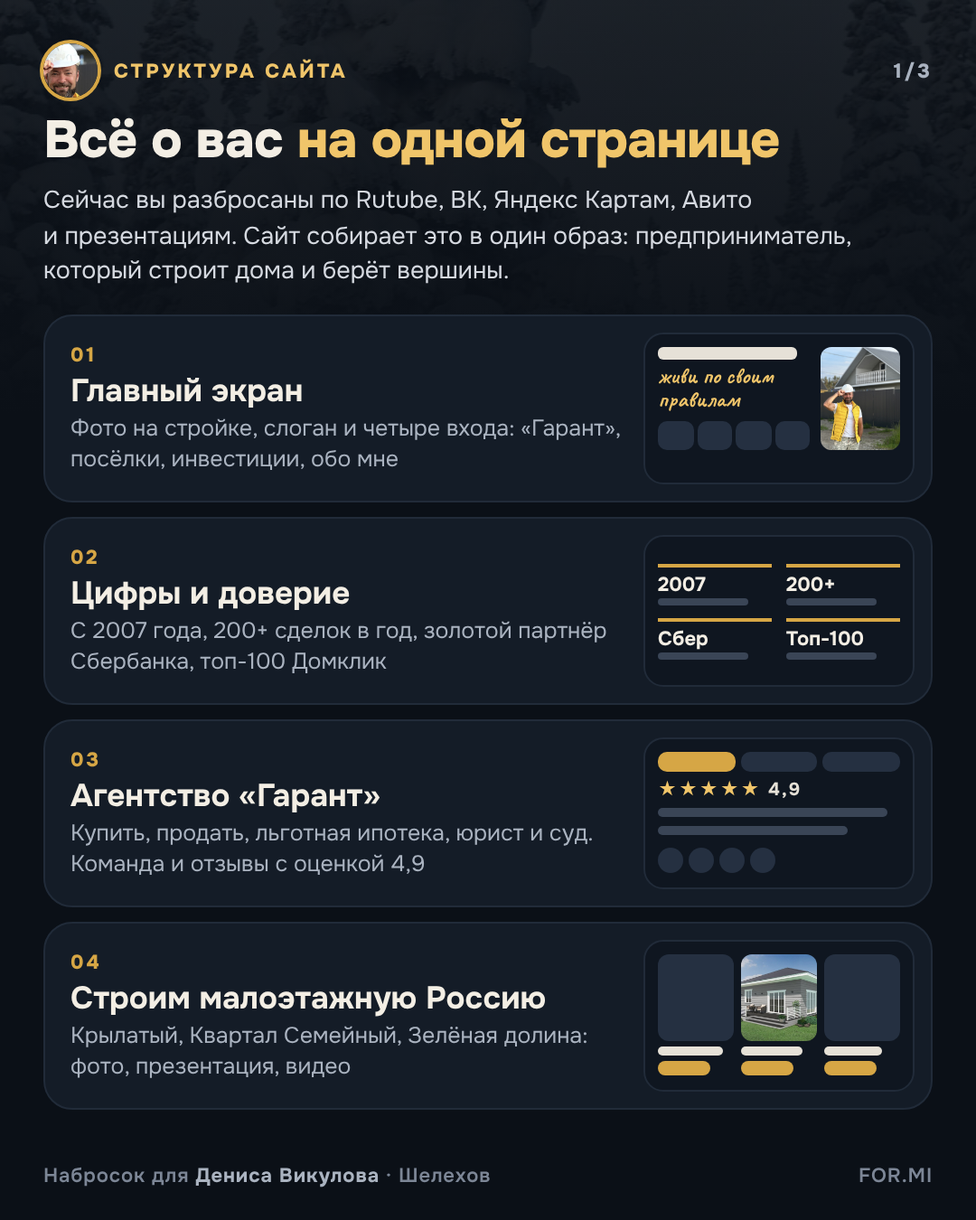
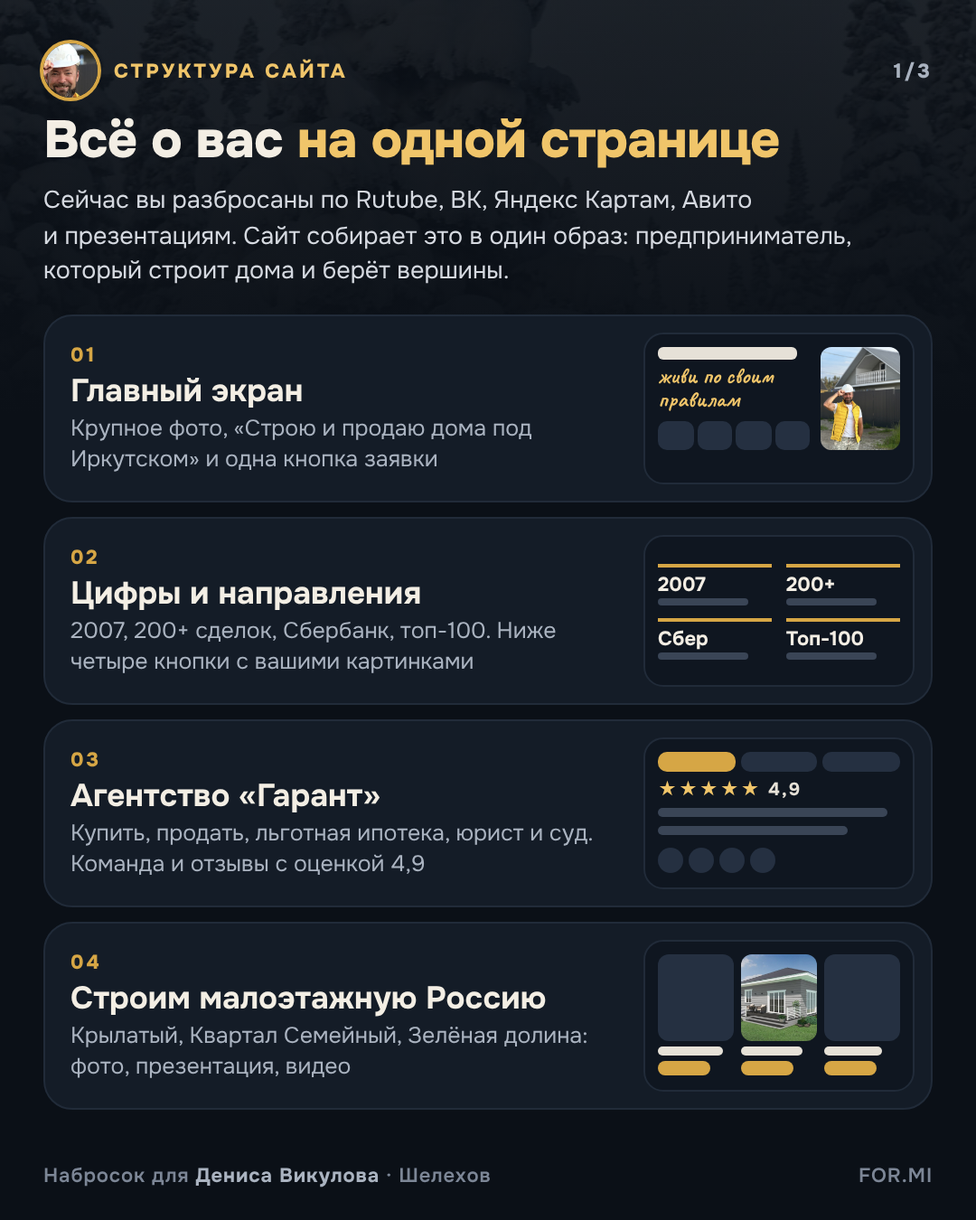
Денис Викулов: первый экран про одну мысль, направления с его картинками под экраном
Claude-Session: https://claude.ai/code/session_01MqcZMF1QZGroxt2dRB4nWR

Changed region(s): [[0.0611, 0.4667, 0.6111, 0.56], [0.0611, 0.3422, 0.6111, 0.4044]]

diff --git a/denis-vikulov/index.html b/denis-vikulov/index.html
@@ -60,74 +60,66 @@ nav a:hover{color:var(--gold-hi)}
 @media (max-width:1150px){nav{display:none}.h-right{margin-left:auto}}
 @media (max-width:640px){header .wrap{height:62px}.mono{width:36px;height:36px;font-size:12.5px}.logo b{font-size:14px}.h-cta,.ic.soc{display:none}.ic.menu{display:grid}}
 
-/* главный экран: фото Дениса на всю ширину, слева текст на затемнении */
+/* главный экран: одна мысль. Кто Денис и чем занят, одна кнопка заявки, крупное фото */
 .stage{position:relative;isolation:isolate;overflow:hidden;margin-top:-72px;padding-top:72px}
 .bg-blur,.bg-photo{position:absolute;z-index:-3;pointer-events:none}
-.bg-blur{inset:-40px;background:url(img/denis-kaska.jpg) 50% 30%/cover;filter:blur(34px) saturate(.9);opacity:.7}
-.bg-photo{z-index:-2;top:0;right:0;bottom:0;width:62%;background:url(img/denis-kaska.jpg) 28% 22%/cover;-webkit-mask-image:linear-gradient(90deg,transparent 0%,#000 30%);mask-image:linear-gradient(90deg,transparent 0%,#000 30%)}
-.stage::after{content:"";position:absolute;inset:0;z-index:-1;background:linear-gradient(90deg,var(--bg) 0%,rgb(11 16 23 / .9) 34%,rgb(11 16 23 / .35) 56%,transparent 74%),linear-gradient(180deg,rgb(11 16 23 / .6) 0%,transparent 18%,transparent 64%,var(--bg) 100%)}
-.hero{position:relative;display:grid;grid-template-columns:minmax(0,600px) minmax(0,1fr);gap:40px;min-height:clamp(560px,calc(100vh - 210px),720px);padding-block:clamp(48px,7vh,84px) 40px;align-items:center}
-.h-left{display:grid;gap:26px;align-content:center}
-.hero h1{font-family:var(--serif);font-weight:500;font-size:clamp(38px,4vw,58px);font-variant-numeric:lining-nums;line-height:1.04;letter-spacing:-.01em}
+.bg-blur{inset:-40px;background:url(img/denis-kaska.jpg) 50% 30%/cover;filter:blur(34px) saturate(.9);opacity:.6}
+.bg-photo{z-index:-2;top:0;right:0;bottom:0;width:68%;background:url(img/denis-kaska.jpg) 22% 20%/cover;-webkit-mask-image:linear-gradient(90deg,transparent 0%,#000 26%);mask-image:linear-gradient(90deg,transparent 0%,#000 26%)}
+.stage::after{content:"";position:absolute;inset:0;z-index:-1;background:linear-gradient(90deg,var(--bg) 0%,rgb(11 16 23 / .92) 30%,rgb(11 16 23 / .4) 48%,transparent 64%),linear-gradient(180deg,rgb(11 16 23 / .55) 0%,transparent 16%,transparent 70%,var(--bg) 100%)}
+.hero{position:relative;display:grid;grid-template-columns:minmax(0,620px) minmax(0,1fr);min-height:clamp(600px,calc(100vh - 72px),900px);padding-block:40px;align-items:center}
+.h-left{display:grid;gap:28px;align-content:center}
+.hero h1{font-family:var(--serif);font-weight:500;font-size:clamp(40px,4.1vw,60px);line-height:1.06;letter-spacing:-.01em;text-wrap:wrap}
 .hero h1 .scr{display:block;font-style:italic;color:var(--gold-hi)}
+.sub{font-size:clamp(16px,1.3vw,18.5px);color:#D5D9E0;max-width:44ch;line-height:1.6}
+.cta{display:grid;gap:10px;justify-items:start}
+.cta .btn{padding:18px 30px;font-size:16.5px}
+.cta small{font-size:13.5px;color:var(--muted)}
+.sign{position:absolute;right:0;bottom:44px;font-family:var(--script);font-size:46px;line-height:1;color:var(--ink);text-shadow:0 2px 14px rgb(0 0 0 / .7);transform:rotate(-4deg)}
 
-.sub{font-size:clamp(16px,1.3vw,18.5px);color:#D5D9E0;max-width:46ch;line-height:1.6}
-.acts{display:flex;flex-wrap:wrap;gap:12px}
-.stats{display:grid;grid-template-columns:repeat(4,minmax(0,1fr));gap:20px;margin-top:14px}
-.stats div{border-top:2px solid var(--gold);padding-top:12px;display:grid;gap:4px}
-.stats b{font-family:var(--serif);font-weight:600;font-variant-numeric:lining-nums;font-size:clamp(24px,2.2vw,32px);line-height:1.05}
-.stats span{font-size:13px;color:var(--muted);line-height:1.3}
-.h-marks{position:relative;align-self:stretch}
-.chip{position:absolute;z-index:3;display:inline-flex;align-items:center;gap:8px;background:rgb(11 16 23 / .62);backdrop-filter:blur(8px);border:1px solid rgb(255 255 255 / .14);border-radius:999px;padding:8px 14px;font-size:13px;font-weight:700;white-space:nowrap}
-.chip::before{content:"";width:7px;height:7px;border-radius:50%;background:var(--gold-hi);box-shadow:0 0 10px 2px rgb(240 197 106 / .6)}
-.chip.sber{top:0;right:0}
-.ask{position:absolute;right:0;top:96px;width:330px;display:grid;gap:12px;padding:16px;border-radius:20px;background:rgb(11 16 23 / .5);backdrop-filter:blur(14px);border:1px solid rgb(255 255 255 / .16);box-shadow:0 30px 60px -30px rgb(0 0 0 / .8)}
-.ask b{font-size:15px}
-.ask small{font-size:12.5px;color:var(--muted)}
-.ask .opts{display:flex;flex-wrap:wrap;gap:6px}
-.ask .opts button{border:1px solid rgb(255 255 255 / .2);background:rgb(255 255 255 / .08);border-radius:999px;padding:7px 12px;font-size:13px;font-weight:600}
-.ask .opts button::before{content:"+ ";color:var(--gold-hi)}
-.ask .opts button:hover{border-color:var(--gold);background:var(--gold-tint)}
-.sign{position:absolute;right:0;bottom:6px;font-family:var(--script);font-size:44px;line-height:1;color:var(--ink);text-shadow:0 2px 14px rgb(0 0 0 / .7);transform:rotate(-4deg)}
+/* сразу под первым экраном: цифры и четыре направления */
+.napr{padding-block:8px 72px}
+.stats{display:grid;grid-template-columns:repeat(5,minmax(0,1fr));border-block:1px solid var(--line);margin-bottom:28px}
+.stats div{padding:22px 20px;display:grid;gap:4px;align-content:start}
+.stats div+div{border-left:1px solid var(--line)}
+.stats b{font-family:var(--serif);font-weight:600;font-variant-numeric:lining-nums;font-size:clamp(22px,2.1vw,30px);line-height:1.1;color:var(--gold-hi)}
+.stats span{font-size:13.5px;color:var(--muted);line-height:1.35}
+.dirs{display:grid;grid-template-columns:repeat(4,minmax(0,1fr));gap:16px}
+.dir{display:grid;grid-template-rows:auto 1fr;border-radius:22px;overflow:hidden;background:var(--surface);border:1px solid var(--line);text-decoration:none;transition:border-color .15s,transform .15s}
+.dir:hover{border-color:var(--gold-line);transform:translateY(-2px)}
+.dir .pic{aspect-ratio:4/3;background:var(--surface3) center/cover}
+.dir .pic.garant{background:#000 url(img/garant-plashka.jpg) center/88% auto no-repeat}
+.dir .txt{display:grid;grid-template-columns:minmax(0,1fr) auto;gap:4px 12px;padding:16px 18px 18px;align-items:start}
+.dir b{font-size:17px;line-height:1.25}
+.dir small{grid-column:1;font-size:13.5px;color:var(--muted);line-height:1.4}
+.dir .ar{grid-row:1/span 2;grid-column:2;color:var(--gold-hi);font-size:20px}
 
-/* четыре входа */
-.dirs{display:grid;grid-template-columns:repeat(4,minmax(0,1fr));gap:16px;padding-block:8px 56px}
-.dir{display:grid;grid-template-columns:64px minmax(0,1fr) auto;gap:14px;align-items:center;padding:12px 16px 12px 12px;border-radius:18px;background:rgb(20 28 39 / .82);backdrop-filter:blur(10px);border:1px solid var(--line);text-decoration:none;transition:border-color .15s,background .15s}
-.dir:hover{border-color:var(--gold-line);background:var(--surface2)}
-.dir .th{width:64px;height:64px;border-radius:13px;background:var(--surface3) center/cover;display:grid;place-items:center;color:var(--gold-hi)}
-.dir .th svg{width:28px;height:28px}
-.dir .th.gt{background:var(--gold-tint);box-shadow:inset 0 0 0 1px var(--gold-line)}
-.dir b{display:block;font-size:16px;line-height:1.2}
-.dir small{display:block;font-size:13px;color:var(--muted);line-height:1.3;margin-top:3px}
-.dir .ar{color:var(--gold-hi);font-size:20px}
-
-@media (max-width:1100px){.dirs{grid-template-columns:repeat(2,minmax(0,1fr))}}
+@media (max-width:1100px){.dirs{grid-template-columns:repeat(2,minmax(0,1fr))}.stats{grid-template-columns:repeat(3,minmax(0,1fr))}.stats div:nth-child(4){border-left:0}.stats div:nth-child(n+4){border-top:1px solid var(--line)}}
 @media (max-width:960px){
   .stage{margin-top:-62px;padding-top:62px}
-  .hero{grid-template-columns:1fr;min-height:0;padding-block:300px 28px;gap:0}
-  .bg-blur{display:none}
-  .bg-photo{left:0;width:auto;bottom:auto;height:460px;background-position:30% 18%;-webkit-mask-image:linear-gradient(180deg,#000 60%,transparent);mask-image:linear-gradient(180deg,#000 60%,transparent)}
-  .stage::after{background:linear-gradient(180deg,rgb(11 16 23 / .35) 0,transparent 90px,transparent 190px,rgb(11 16 23 / .8) 330px,var(--bg) 440px)}
-  .h-marks{position:absolute;inset:16px 0 auto 0;height:260px}
-  .ask,.sign{display:none}
+  .hero{grid-template-columns:1fr;min-height:0;padding-block:330px 36px}
+  .bg-blur,.sign{display:none}
+  .bg-photo{left:0;width:auto;bottom:auto;height:470px;background-position:26% 16%;-webkit-mask-image:linear-gradient(180deg,#000 62%,transparent);mask-image:linear-gradient(180deg,#000 62%,transparent)}
+  .stage::after{background:linear-gradient(180deg,rgb(11 16 23 / .35) 0,transparent 90px,transparent 220px,rgb(11 16 23 / .8) 360px,var(--bg) 460px)}
 }
 @media (max-width:640px){
-  .chip{font-size:11.5px;padding:5px 10px}
-  .h-left{gap:18px}
-  .hero h1{font-size:34px}
-  .eyebrow .long2{display:none}
+  .h-left{gap:20px}
+  .hero h1{font-size:33px}
   .sub{font-size:15.5px}
-  .sub .long{display:none}
-  .acts .btn{flex:1 1 100%}
-  .acts .btn.ghost{display:none}
-  .stats{grid-template-columns:repeat(2,minmax(0,1fr));gap:12px 14px}
-  .stats div:nth-child(n+3){display:none}
-  .dirs{gap:8px;padding-top:18px}
-  .dir{grid-template-columns:48px minmax(0,1fr);padding:8px 10px 8px 8px;gap:10px;border-radius:15px}
-  .dir .th{width:48px;height:48px;border-radius:11px}
-  .dir .th svg{width:22px;height:22px}
-  .dir .ar,.dir small{display:none}
-  .dir b{font-size:14px}
+  .cta{justify-items:stretch}
+  .cta .btn{width:100%}
+  .cta small{text-align:center}
+  .stats{grid-template-columns:repeat(2,minmax(0,1fr))}
+  .stats div{padding:16px 12px}
+  .stats div:nth-child(n){border-left:0;border-top:1px solid var(--line)}
+  .stats div:nth-child(-n+2){border-top:0}
+  .stats div:nth-child(even){border-left:1px solid var(--line)}
+  .stats div:last-child{grid-column:span 2}
+  .dirs{gap:10px}
+  .dir{border-radius:16px}
+  .dir .pic{aspect-ratio:1/1}
+  .dir .txt{padding:10px 12px 12px;grid-template-columns:1fr}
+  .dir small,.dir .ar{display:none}
+  .dir b{font-size:14.5px}
 }
 
 /* структура */
@@ -208,7 +200,7 @@ dialog p{color:var(--muted);font-size:14.5px;margin-bottom:8px}
     <div class="h-right">
       <a class="ic soc" href="#struktura" aria-label="Rutube"><svg viewBox="0 0 24 24" fill="none" stroke="currentColor" stroke-width="2" stroke-linecap="round" stroke-linejoin="round"><rect x="3" y="5" width="18" height="14" rx="4"/><path d="m10 9 5 3-5 3z" fill="currentColor"/></svg></a>
       <a class="ic soc" href="#struktura" aria-label="ВКонтакте"><svg viewBox="0 0 24 24" fill="currentColor"><path d="M12.8 17.5c-5.6 0-8.8-3.9-8.9-10.3h2.8c.1 4.7 2.1 6.7 3.8 7.1V7.2h2.6v4c1.6-.2 3.3-2 3.9-4h2.6c-.4 2.5-2.3 4.3-3.6 5.1 1.3.6 3.4 2.3 4.2 5.2h-2.9c-.6-1.9-2.2-3.4-4.2-3.6v3.6z"/></svg></a>
-      <a class="btn gold h-cta" href="#kviz">Связаться</a>
+      <a class="btn gold h-cta" href="#kviz">Написать Денису</a>
       <button class="ic menu" type="button" aria-label="Меню"><svg viewBox="0 0 24 24" fill="none" stroke="currentColor" stroke-width="2" stroke-linecap="round"><path d="M4 7h16M4 12h16M4 17h16"/></svg></button>
     </div>
   </div>
@@ -220,30 +212,33 @@ dialog p{color:var(--muted);font-size:14.5px;margin-bottom:8px}
   <div class="wrap">
     <div class="hero">
       <div class="h-left">
-        <span class="eyebrow"><span>Агентство «Гарант» · застройщик<span class="long2"> · инвестор</span></span></span>
-        <h1>Строй своё дело, <span class="scr">живи по&nbsp;своим правилам</span></h1>
-        <p class="sub">Продаю, покупаю и&nbsp;строю недвижимость в&nbsp;Шелехове и&nbsp;Иркутском районе с&nbsp;2007 года. <span class="long">Свои коттеджные посёлки, аккредитация Сбербанка и&nbsp;сделки по&nbsp;всей России.</span></p>
-        <div class="acts">
-          <a class="btn gold" href="#kviz">Чем могу помочь?</a>
-          <a class="btn ghost" href="#struktura">Смотреть посёлки</a>
-        </div>
-        <div class="stats">
-          <div><b>с 2007</b><span>в&nbsp;недвижимости</span></div>
-          <div><b>200+</b><span>сделок в&nbsp;год</span></div>
-          <div><b>3</b><span>своих посёлка</span></div>
-          <div><b>Топ-100</b><span>России по&nbsp;версии Домклик</span></div>
+        <span class="eyebrow">Застройщик и&nbsp;риелтор с&nbsp;2007 года</span>
+        <h1>Строю и&nbsp;продаю дома <span class="scr">под Иркутском</span></h1>
+        <p class="sub">Агентство недвижимости «Гарант» и&nbsp;три своих коттеджных посёлка в&nbsp;Шелеховском районе. Ипотека, юрист и&nbsp;сделка в&nbsp;одних руках.</p>
+        <div class="cta">
+          <a class="btn gold" href="#kviz">Написать Денису</a>
+          <small>Три коротких вопроса, и&nbsp;заявка уходит Денису в&nbsp;мессенджер</small>
         </div>
       </div>
-      <div class="h-marks"><span class="chip sber">Золотой партнёр Сбербанка</span><div class="ask"><b>Чем могу помочь?</b><div class="opts"><button type="button" data-need="Купить квартиру или дом">Купить</button><button type="button" data-need="Продать недвижимость">Продать</button><button type="button" data-need="Дом в посёлке Дениса">Дом в&nbsp;посёлке</button><button type="button" data-need="Инвестировать">Инвестировать</button><button type="button" data-need="Вопрос к юристу">Юрист</button></div><small>Три коротких вопроса, и&nbsp;заявка у&nbsp;Дениса</small></div><span class="sign">Денис Викулов</span></div>
-    </div>
-
-    <div class="dirs" id="vhody">
-      <a class="dir" href="#struktura"><span class="th gt"><svg viewBox="0 0 24 24" fill="none" stroke="currentColor" stroke-width="1.8" stroke-linecap="round" stroke-linejoin="round"><path d="M3 11 12 4l9 7"/><path d="M5 10v10h14V10"/><circle cx="12" cy="14" r="2"/><path d="M12 16v3"/></svg></span><span><b>Агентство «Гарант»</b><small>Купить, продать, ипотека, юрист. 4,9 на&nbsp;Яндексе</small></span><span class="ar">→</span></a>
-      <a class="dir" href="#struktura"><span class="th" style="background-image:url(img/dom-render.jpg)"></span><span><b>Свои посёлки</b><small>Крылатый, Квартал Семейный, Зелёная долина</small></span><span class="ar">→</span></a>
-      <a class="dir" href="#struktura"><span class="th gt"><svg viewBox="0 0 24 24" fill="none" stroke="currentColor" stroke-width="1.8" stroke-linecap="round" stroke-linejoin="round"><path d="M4 19V5"/><path d="M4 19h16"/><path d="m7 15 4-4 3 3 5-6"/><path d="M15 8h4v4"/></svg></span><span><b>Инвестиции</b><small>Россия и&nbsp;зарубеж, сделки между городами</small></span><span class="ar">→</span></a>
-      <a class="dir" href="#struktura"><span class="th" style="background-image:url(img/frirayd.jpg);background-position:45% 40%"></span><span><b>Обо мне</b><small>Днём брус и&nbsp;бетон, утром сделка. Эльбрус и&nbsp;Байкал</small></span><span class="ar">→</span></a>
+      <span class="sign">Денис Викулов</span>
     </div>
   </div>
+  </div>
+
+  <div class="wrap napr" id="vhody">
+    <div class="stats">
+      <div><b>с 2007 года</b><span>в&nbsp;недвижимости</span></div>
+      <div><b>200+</b><span>сделок в&nbsp;год</span></div>
+      <div><b>3 посёлка</b><span>строим сами</span></div>
+      <div><b>Сбербанк</b><span>золотой партнёр, аккредитованный застройщик</span></div>
+      <div><b>Топ-100</b><span>России по&nbsp;версии Домклик</span></div>
+    </div>
+    <div class="dirs">
+      <a class="dir" href="#struktura"><span class="pic garant"></span><span class="txt"><b>Агентство «Гарант»</b><small>Купить, продать, ипотека, юрист</small><span class="ar">→</span></span></a>
+      <a class="dir" href="#struktura"><span class="pic" style="background-image:url(img/dom-noch.jpg)"></span><span class="txt"><b>Свои посёлки</b><small>Крылатый, Квартал Семейный, Зелёная долина</small><span class="ar">→</span></span></a>
+      <a class="dir" href="#struktura"><span class="pic" style="background-image:url(img/real-invest.jpg)"></span><span class="txt"><b>Инвестиции</b><small>Россия и&nbsp;зарубеж, сделки между городами</small><span class="ar">→</span></span></a>
+      <a class="dir" href="#struktura"><span class="pic" style="background-image:url(img/frirayd.jpg);background-position:45% 40%"></span><span class="txt"><b>Обо мне</b><small>Днём брус и&nbsp;бетон, утром сделка</small><span class="ar">→</span></span></a>
+    </div>
   </div>
 
   <section id="struktura">
@@ -254,7 +249,7 @@ dialog p{color:var(--muted);font-size:14.5px;margin-bottom:8px}
         <p>Сейчас это разбросано по&nbsp;Rutube, ВК, Яндекс Картам, Авито и&nbsp;презентациям. Здесь человек за&nbsp;минуту понимает, кто вы и&nbsp;с&nbsp;чем к&nbsp;вам прийти.</p>
       </div>
       <div class="blocks">
-        <div class="blk"><span class="no">01</span><h3>Главный экран</h3><p>Фото на&nbsp;стройке, слоган и&nbsp;четыре входа: агентство, посёлки, инвестиции, обо мне. С&nbsp;первого взгляда понятно, чем вы заняты.</p></div>
+        <div class="blk"><span class="no">01</span><h3>Главный экран</h3><p>Крупное фото на&nbsp;стройке, кто вы и&nbsp;чем заняты, одна кнопка «Написать Денису». Сразу под ним цифры и&nbsp;четыре направления с&nbsp;вашими картинками.</p></div>
         <div class="blk"><span class="no">02</span><h3>Цифры и&nbsp;доверие</h3><p>С&nbsp;2007 года, 200+ сделок в&nbsp;год, аккредитованный застройщик и&nbsp;золотой партнёр Сбербанка, топ-100 Домклик, дипломы.</p></div>
         <div class="blk"><span class="no">03</span><h3>Агентство «Гарант»</h3><p>Покупка, продажа, льготные ипотеки (семейная, сельская, IT), маткапитал, юрист и&nbsp;суд. Команда и&nbsp;отзывы с&nbsp;Яндекса.</p></div>
         <div class="blk"><div class="pic" style="background-image:url(img/dom-render.jpg)"></div><span class="no">04</span><h3>Строим малоэтажную Россию</h3><p>Три посёлка карточками: фото, площадь домов, ипотека, кнопки «Презентация» и&nbsp;«Видео», плейлист «Обзоры домов».</p></div>
@@ -347,7 +342,6 @@ dialog p{color:var(--muted);font-size:14.5px;margin-bottom:8px}
 </dialog>
 
 <script>
-document.querySelectorAll('.ask [data-need]').forEach(b=>b.addEventListener('click',()=>{const r=document.querySelector('input[name="need"][value="'+b.dataset.need+'"]');if(r)r.checked=true;document.getElementById('kviz').scrollIntoView({behavior:'smooth'})}));
 const f=document.getElementById('qform'),ok=document.getElementById('ok'),send=document.getElementById('send');
 ok.addEventListener('change',()=>{send.disabled=!ok.checked});
 document.querySelectorAll('[data-open]').forEach(b=>b.addEventListener('click',()=>document.getElementById(b.dataset.open).showModal()));

diff --git a/denis-vikulov/struktura.html b/denis-vikulov/struktura.html
@@ -72,12 +72,12 @@ h1 em{font-style:normal;color:var(--gold-hi)}
     <p>Сейчас вы разбросаны по&nbsp;Rutube, ВК, Яндекс Картам, Авито и&nbsp;презентациям. Сайт собирает это в&nbsp;один образ: предприниматель, который строит дома и&nbsp;берёт вершины.</p>
   </div>
   <div class="rows">
-    <div class="r"><div class="t"><span class="no">01</span><h3>Главный экран</h3><p>Фото на&nbsp;стройке, слоган и&nbsp;четыре входа: «Гарант», посёлки, инвестиции, обо мне</p></div>
+    <div class="r"><div class="t"><span class="no">01</span><h3>Главный экран</h3><p>Крупное фото, «Строю и&nbsp;продаю дома под Иркутском» и&nbsp;одна кнопка заявки</p></div>
       <div class="v" style="grid-template-columns:minmax(0,1fr) 44px;gap:6px">
         <div style="display:grid;gap:3px;align-content:start"><span class="ln w" style="width:92%;height:7px"></span><span class="scr" style="font-size:12.5px">живи по своим правилам</span><div style="display:grid;grid-template-columns:repeat(4,minmax(0,1fr));gap:2px;margin-top:3px"><span class="pl" style="height:16px"></span><span class="pl" style="height:16px"></span><span class="pl" style="height:16px"></span><span class="pl" style="height:16px"></span></div></div>
         <div class="ph" style="background-image:url(img/denis-kaska.jpg);background-position:30% 25%"></div>
       </div></div>
-    <div class="r"><div class="t"><span class="no">02</span><h3>Цифры и&nbsp;доверие</h3><p>С&nbsp;2007 года, 200+ сделок в&nbsp;год, золотой партнёр Сбербанка, топ-100 Домклик</p></div>
+    <div class="r"><div class="t"><span class="no">02</span><h3>Цифры и&nbsp;направления</h3><p>2007, 200+ сделок, Сбербанк, топ-100. Ниже четыре кнопки с&nbsp;вашими картинками</p></div>
       <div class="v" style="grid-template-columns:repeat(2,minmax(0,1fr));gap:7px 8px;align-content:center">
         <div class="st"><b>2007</b><i></i></div><div class="st"><b>200+</b><i></i></div><div class="st"><b>Сбер</b><i></i></div><div class="st"><b>Топ-100</b><i></i></div>
       </div></div>
@@ -121,7 +121,7 @@ h1 em{font-style:normal;color:var(--gold-hi)}
         </div>
         <div style="display:grid;gap:4px;align-content:center"><span class="ln w" style="width:85%"></span><span class="ln" style="width:70%"></span><span class="ln" style="width:78%"></span><span class="pl g" style="height:10px;width:70%"></span></div>
       </div></div>
-    <div class="r"><div class="t"><span class="no">07</span><h3>Обо мне</h3><p>Днём брус с&nbsp;бригадами, утром сделка. Эльбрус и&nbsp;Байкал, кнопки на&nbsp;плейлисты</p></div>
+    <div class="r"><div class="t"><span class="no">07</span><h3>Обо мне</h3><p>«Строй своё дело, живи по&nbsp;своим правилам»: брус днём, сделка утром, Эльбрус и&nbsp;Байкал</p></div>
       <div class="v" style="grid-template-columns:minmax(0,1.2fr) minmax(0,1fr);grid-template-rows:1fr 1fr;gap:3px;padding:5px">
         <div class="ph" style="grid-row:span 2;background-image:url(img/frirayd.jpg);background-position:45% 40%"></div>
         <div class="ph" style="background-image:url(img/baikal.jpg);background-position:60% 30%"></div>
